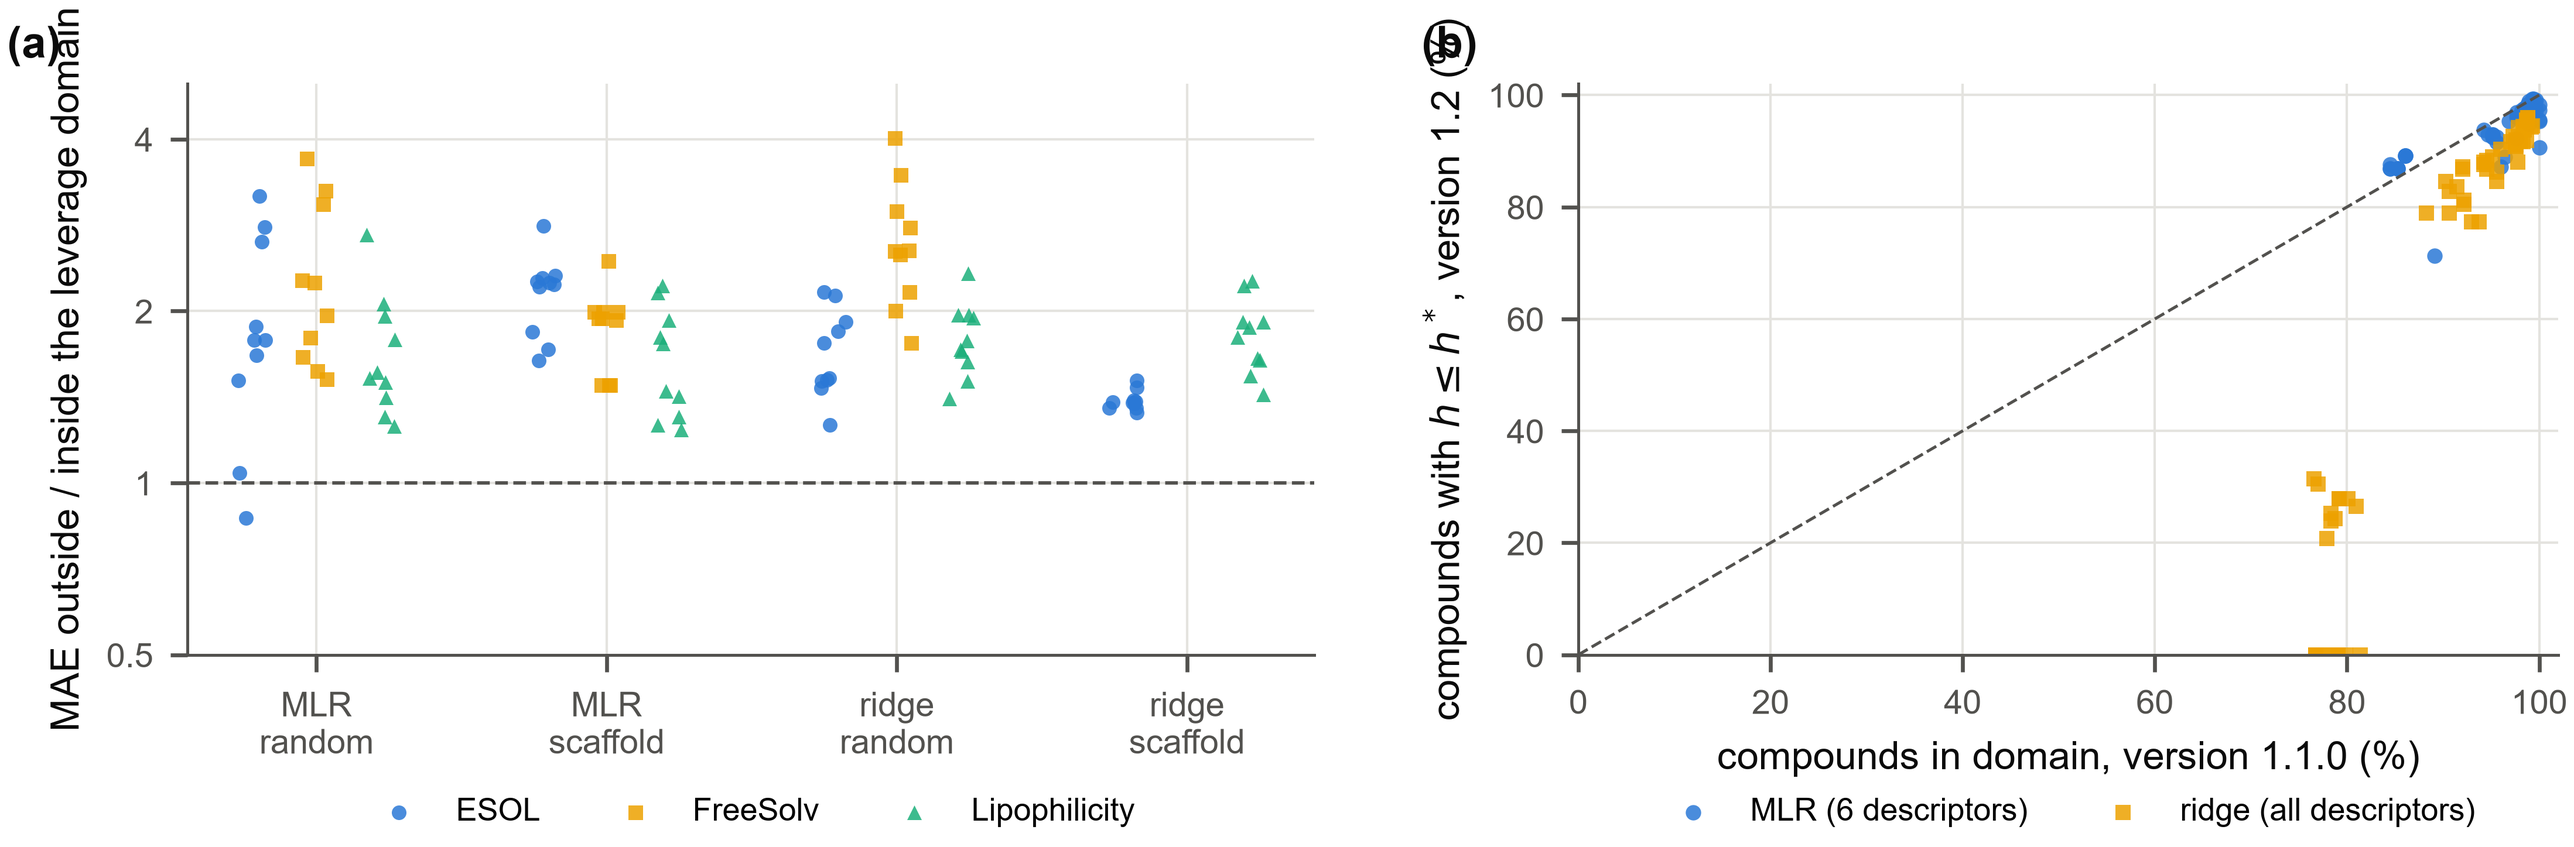
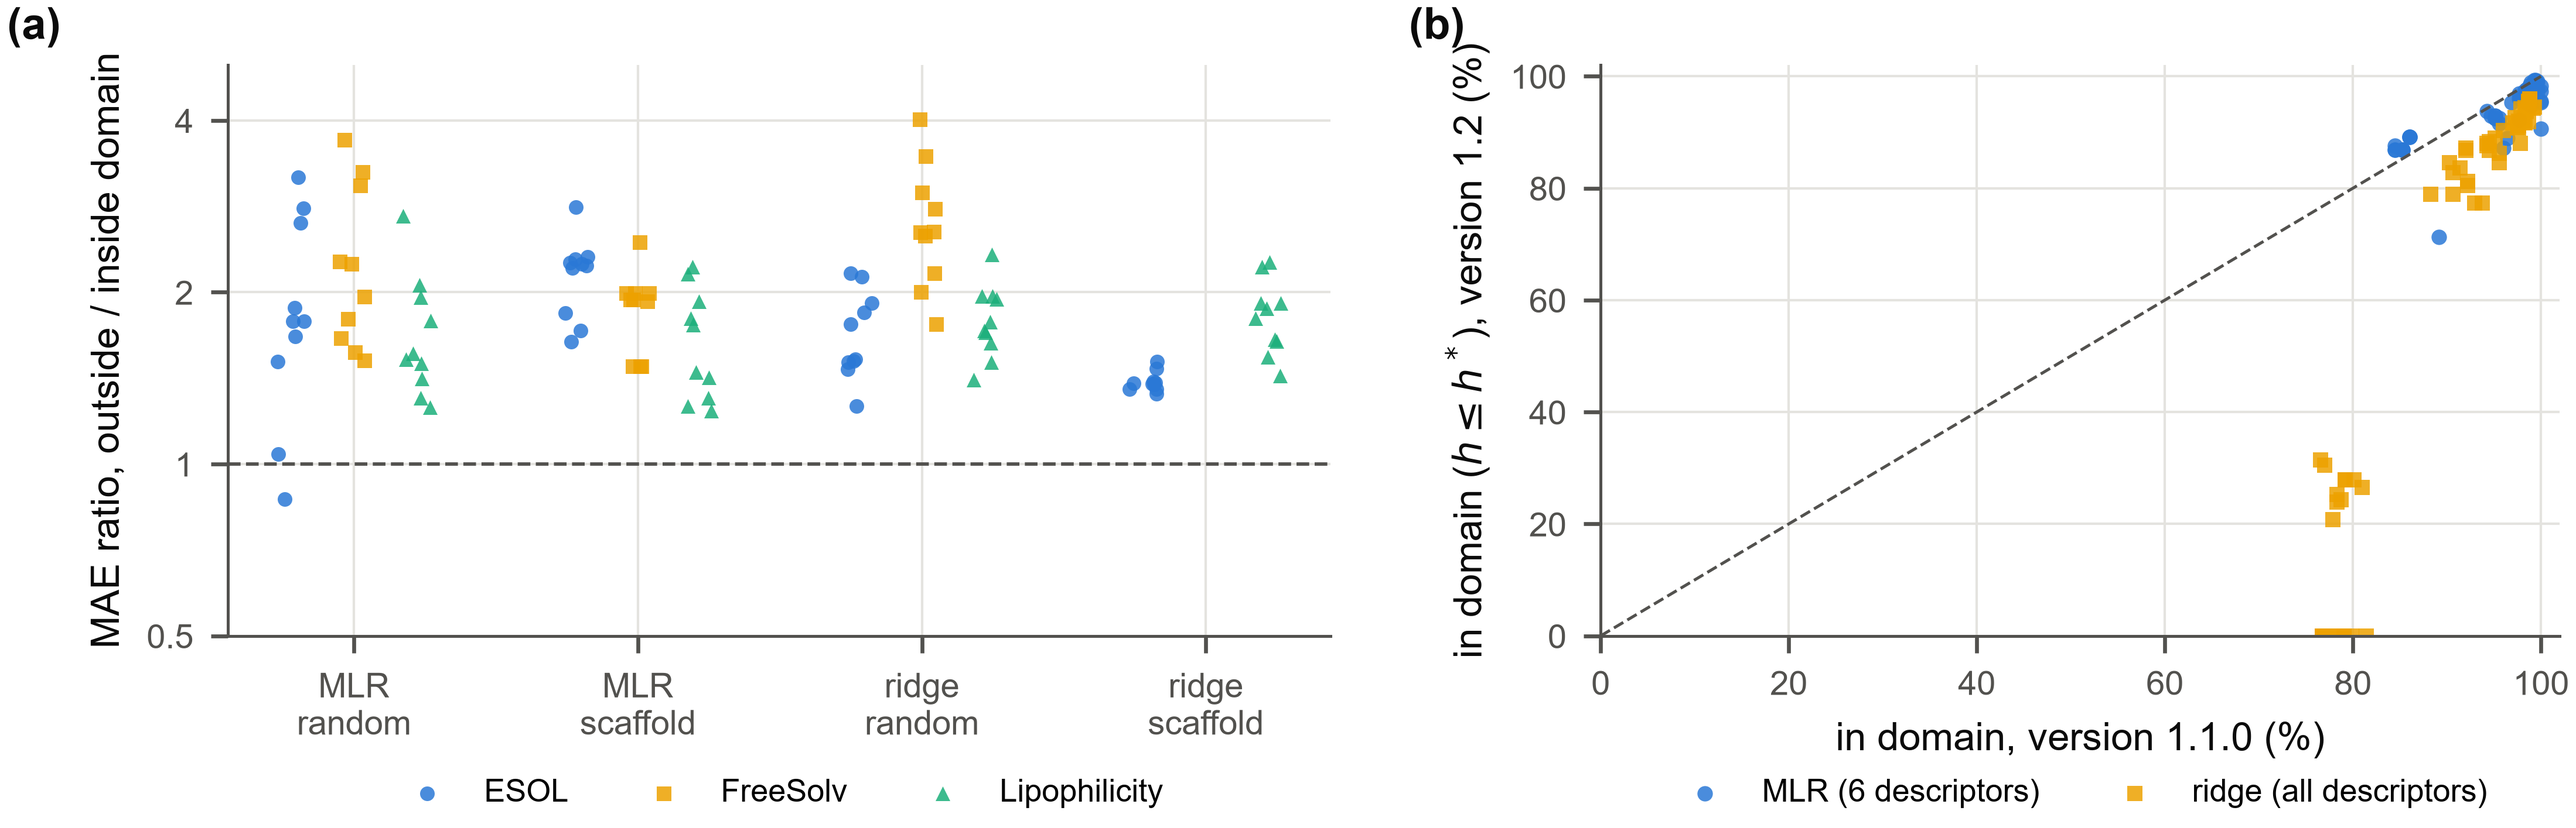
validation figures: avoid overlapping axis labels and panel letters
Shorter y-axis labels and panel letters moved in the leverage-domain figure; figures regenerated with validation/make_figures.py (same data).

diff --git a/validation/make_figures.py b/validation/make_figures.py
@@ -127,19 +127,19 @@ def fig_ad(d):
     a.set_yticks([0.5, 1, 2, 4], ["0.5", "1", "2", "4"])
     a.minorticks_off()
     a.set_xticks(range(4), [f"{m if m == 'ridge' else 'MLR'}\n{s}" for m, s in groups])
-    a.set_ylabel("MAE outside / inside the leverage domain")
+    a.set_ylabel("MAE ratio, outside / inside domain")
     a.legend(loc="upper center", bbox_to_anchor=(0.5, -0.2), ncol=3)
     a.set_ylim(0.5, 5)
-    panel(a, "a")
+    panel(a, "a", -0.2)
 
     for m, c, mk in (("mlr", NEW, "o"), ("ridge", AUX, "s")):
         v = d[d.model == m]
         b.scatter(v.ad110_pct_in, v.ad_pct_in, s=10, marker=mk, color=c, lw=0, alpha=0.85, label=MODEL[m])
     b.plot([0, 100], [0, 100], color=INK2, lw=0.6, ls="--")
-    b.set(xlim=(0, 102), ylim=(0, 102), xlabel="compounds in domain, version 1.1.0 (%)",
-          ylabel="compounds with $h \\leq h^*$, version 1.2 (%)")
+    b.set(xlim=(0, 102), ylim=(0, 102), xlabel="in domain, version 1.1.0 (%)",
+          ylabel="in domain ($h \\leq h^*$), version 1.2 (%)")
     b.legend(loc="upper center", bbox_to_anchor=(0.5, -0.2), ncol=2)
-    panel(b, "b")
+    panel(b, "b", -0.2)
     fig.tight_layout(w_pad=2.5)
     save(fig, "fig3_ad")
 
